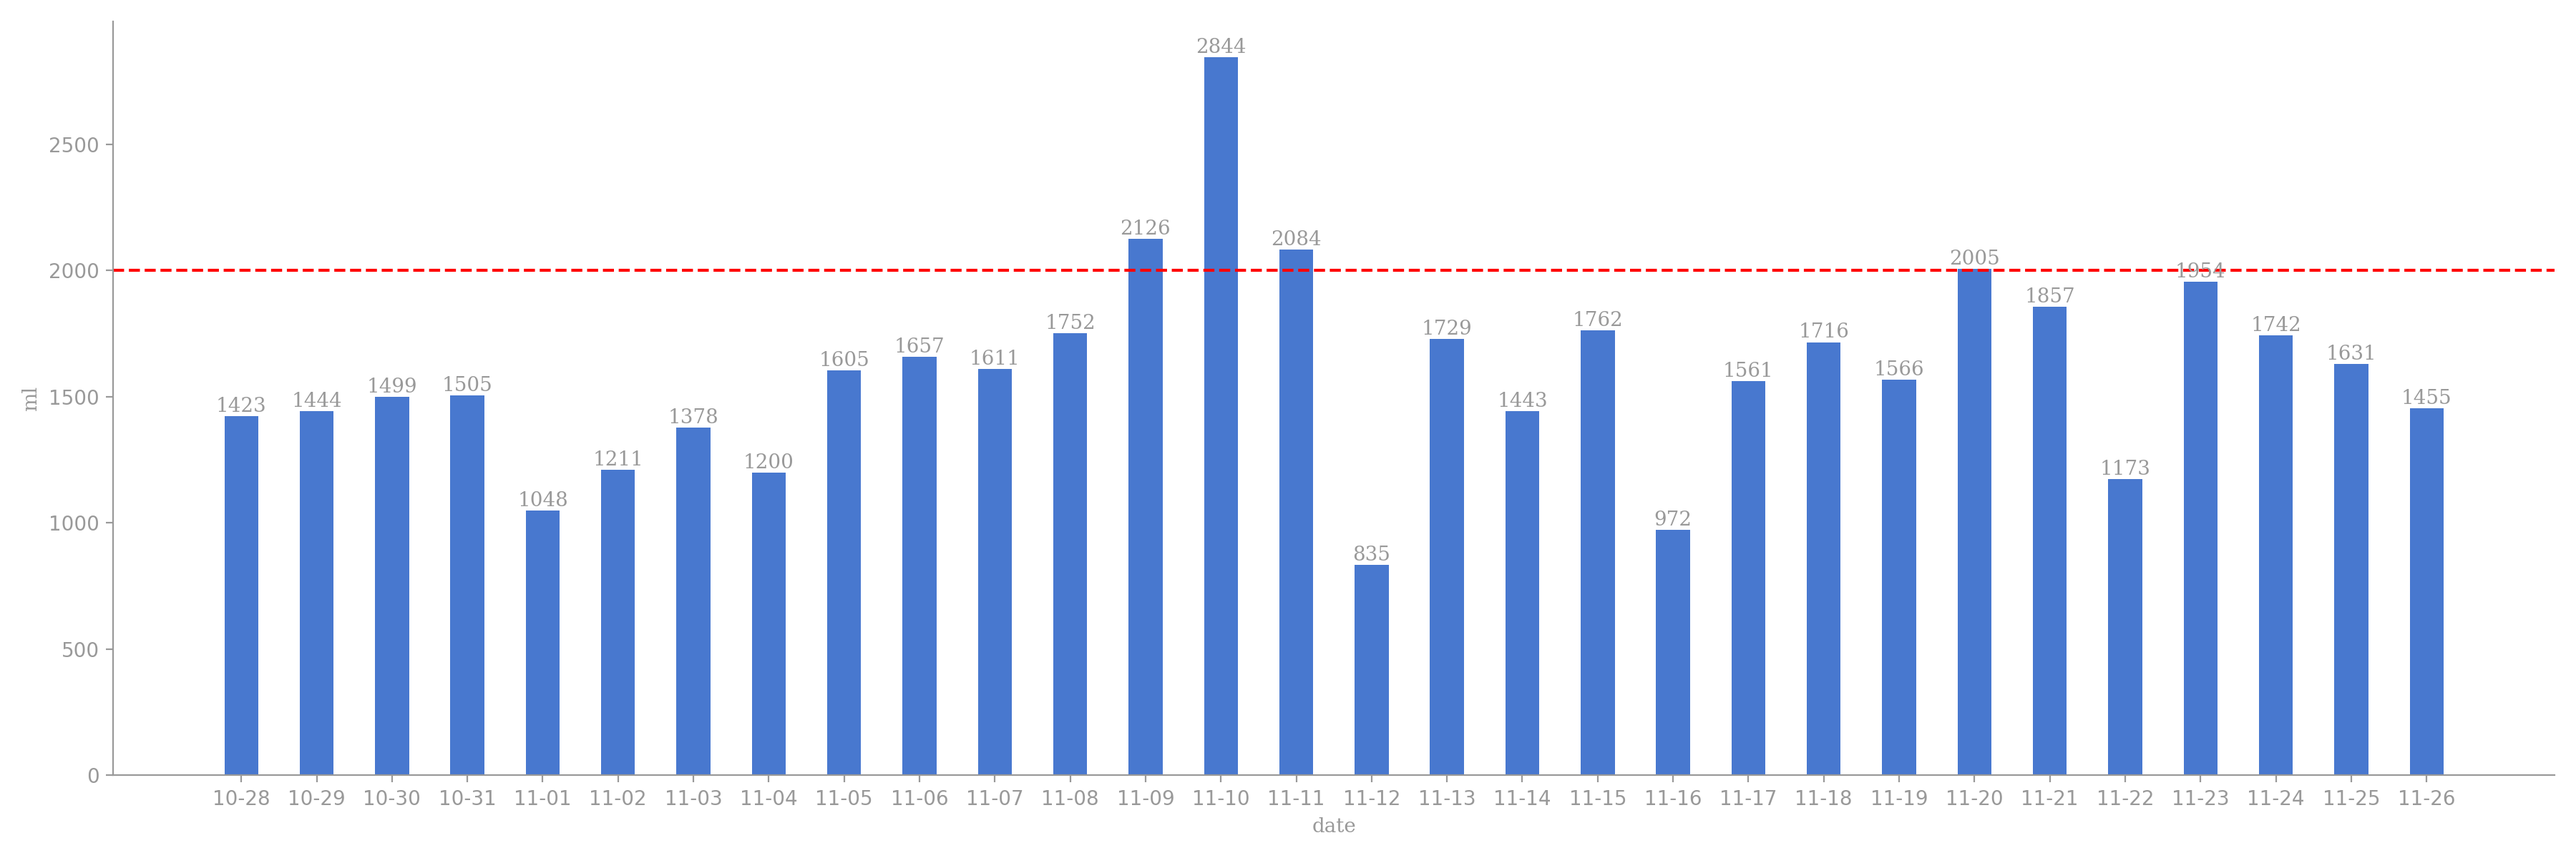
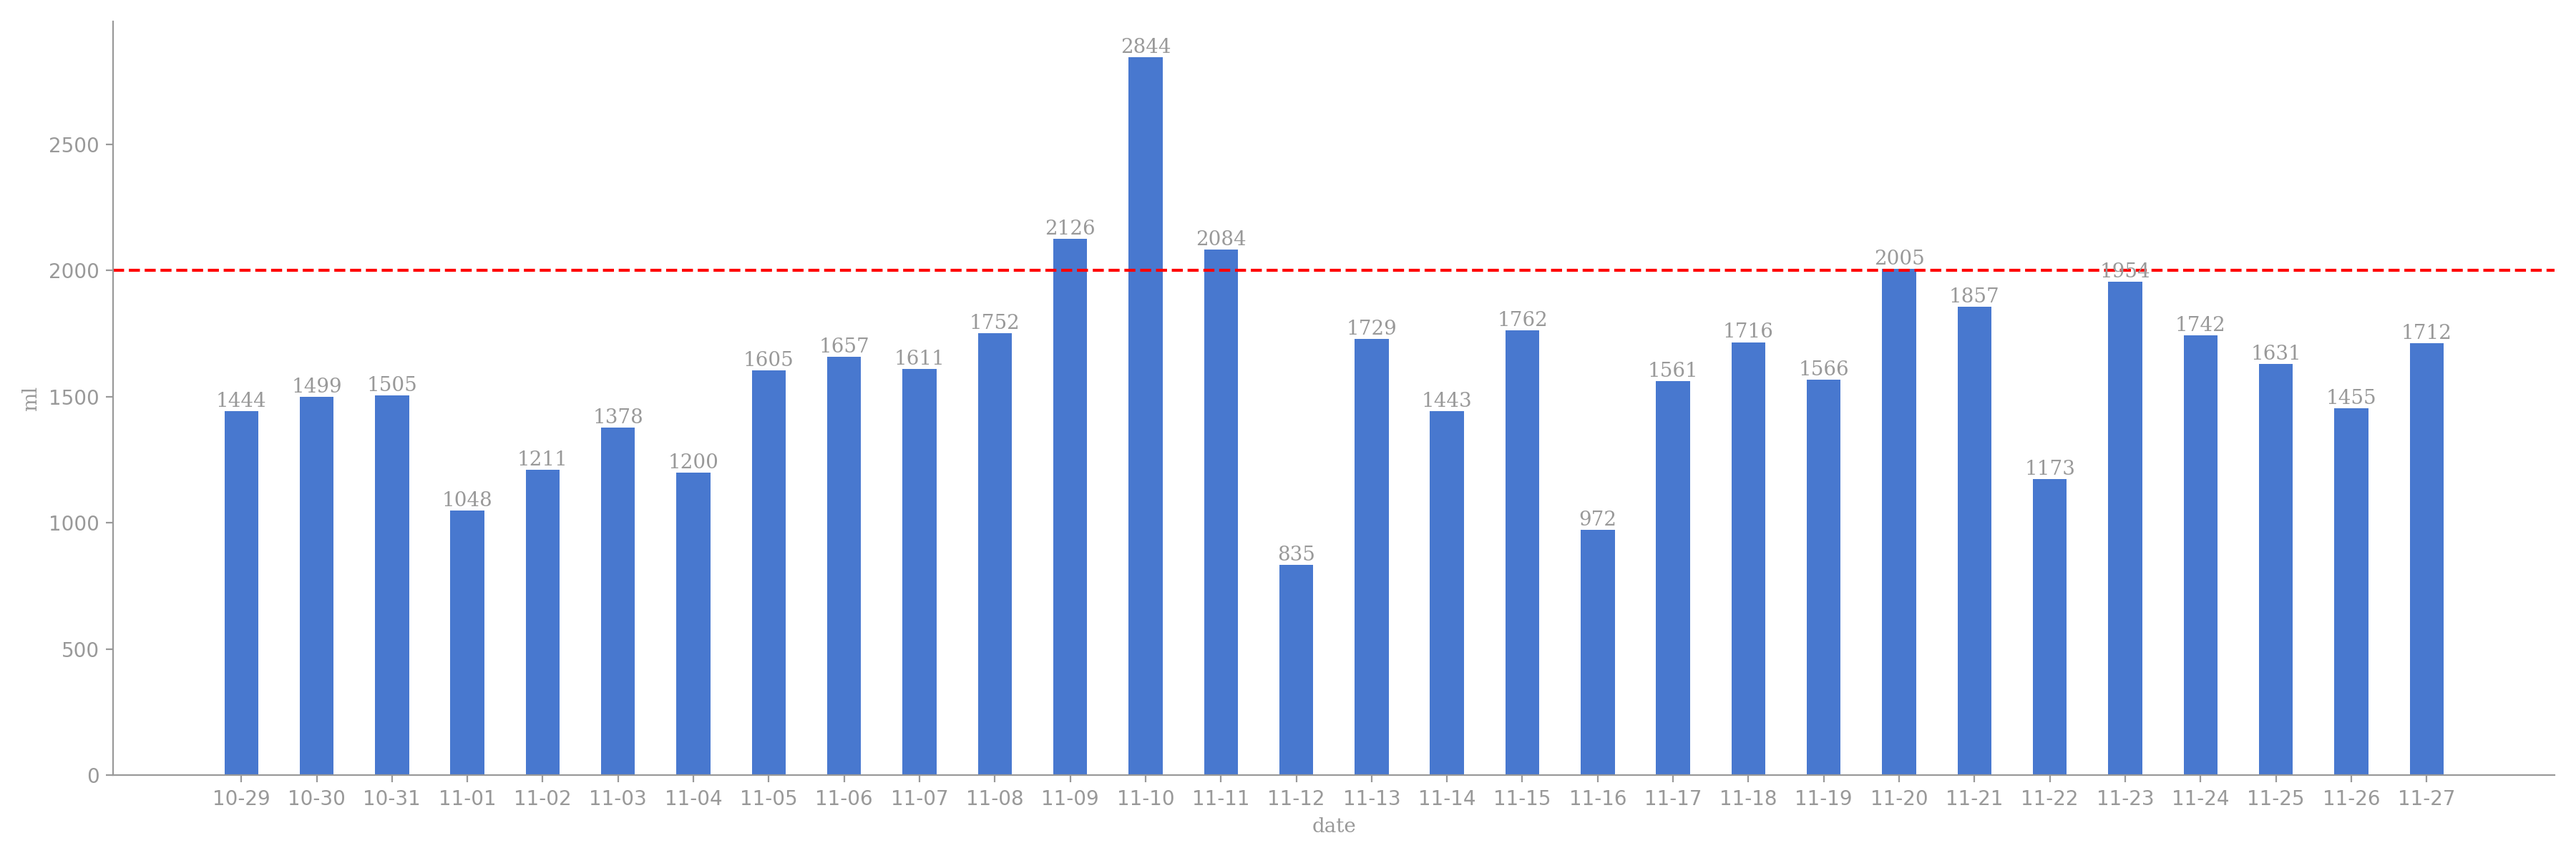
generated readme

Changed region(s): [[0.0933, 0.0308, 0.9644, 0.6783]]

diff --git a/README.md b/README.md
@@ -5,12 +5,12 @@
 
 | 今日总饮水量 | 每小时平均饮水量 |
 | :----: | :----: |
-| 1712 | 131 |
+| 103 | 103 |
 </div>
 
-| 日期 | 00:10:15 | 07:54:45 | 08:34:27 | 09:42:09 | 09:55:09 | 11:21:51 | 12:18:07 | 13:03:50 | 14:11:03 | 15:01:02 | 17:01:30 | 20:18:20 | 21:38:02 | 22:13:28 |
-| :----: | :----: | :----: | :----: | :----: | :----: | :----: | :----: | :----: | :----: | :----: | :----: | :----: | :----: | :----: |
-| 2024-11-27 | 117 | 113 | 124 | 82 | 100 | 95 | 210 | 97 | 103 | 118 | 93 | 62 | 300 | 98 |
+| 日期 | 00:03:31 |
+| :----: | :----: |
+| 2024-11-28 | 103 |
 
 # 近30日饮水数据
 
@@ -19,8 +19,12 @@
 
 | 总饮水量 | 日均饮水量 |
 | :----: | :----: |
-| 47788 | 1592 |
+| 48077 | 1602 |
 </div>
+
+| 日期 | all | 00:10:15 | 07:54:45 | 08:34:27 | 09:42:09 | 09:55:09 | 11:21:51 | 12:18:07 | 13:03:50 | 14:11:03 | 15:01:02 | 17:01:30 | 20:18:20 | 21:38:02 | 22:13:28 |
+| :----: | :----: | :----: | :----: | :----: | :----: | :----: | :----: | :----: | :----: | :----: | :----: | :----: | :----: | :----: | :----: |
+| 2024-11-27 | 1712 | 117 | 113 | 124 | 82 | 100 | 95 | 210 | 97 | 103 | 118 | 93 | 62 | 300 | 98 |
 
 | 日期 | all | 07:42:58 | 08:07:25 | 13:03:21 | 13:49:26 | 15:01:47 | 17:02:08 | 17:34:17 | 19:25:22 | 20:18:29 | 21:23:11 | 21:40:19 | 22:49:48 |
 | :----: | :----: | :----: | :----: | :----: | :----: | :----: | :----: | :----: | :----: | :----: | :----: | :----: | :----: |
@@ -141,8 +145,4 @@
 | 日期 | all | 08:07:59 | 10:10:24 | 12:16:33 | 13:04:28 | 14:03:43 | 14:37:47 | 15:26:30 | 17:31:17 | 17:56:27 | 19:31:32 | 22:00:53 |
 | :----: | :----: | :----: | :----: | :----: | :----: | :----: | :----: | :----: | :----: | :----: | :----: | :----: |
 | 2024-10-28 | 1423 | 124 | 77 | 200 | 78 | 62 | 158 | 101 | 79 | 67 | 77 | 400 |
-
-| 日期 | all | 00:34:33 | 05:44:31 | 07:59:17 | 11:07:14 | 13:00:49 | 13:58:26 | 14:31:51 | 15:25:35 | 16:16:12 | 17:37:46 | 18:33:35 | 19:37:59 | 20:03:37 | 21:49:26 | 22:56:11 | 23:57:52 |
-| :----: | :----: | :----: | :----: | :----: | :----: | :----: | :----: | :----: | :----: | :----: | :----: | :----: | :----: | :----: | :----: | :----: | :----: |
-| 2024-10-27 | 1820 | 87 | 99 | 83 | 81 | 89 | 117 | 96 | 67 | 224 | 69 | 82 | 68 | 60 | 400 | 97 | 101 |
 
